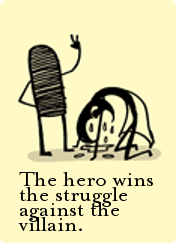
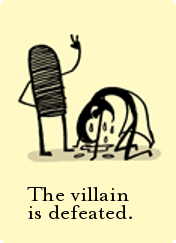
Tweaking the instructions on some of the story cards. Make them shorter and more horizontal, less vertical. Also tweaked the text on a couple of the images, and the text wrapping in StoryEditor. And minor edits to the HTML templates and styles.
StoryEditor's layout needs to be redesigned, the text components are sized in
pixels right now, they need to be sized proportionally by the layout manager
while still wrapping text.

I also wonder if StoryEditor should be simplified to be more like it originally
looked: all the story cards arranged from top to bottom with a single scroll
bar, no Next and Prev buttons, no CardLayout. Except do this with the nice
border, story card image and proportionally-sized text areas for each story
card.

Changed region(s): [[0.1136, 0.6914, 0.8807, 0.9506]]

diff --git a/src/storymaps/FunctionEditor.java b/src/storymaps/FunctionEditor.java
@@ -60,7 +60,7 @@ class FunctionEditor {
     private JTextArea makeEditor(String text) {
         JTextArea editor = new JTextArea(); // Hiding a field.
         editor.setRows(8);
-        editor.setMaximumSize(new Dimension(700,100));
+        editor.setMaximumSize(new Dimension(650,100));
         editor.setLineWrap(true);
         editor.setWrapStyleWord(true);
         editor.setText(text);
@@ -69,13 +69,14 @@ class FunctionEditor {
         return editor;
     }
     
-    private JEditorPane makeInstructions(Color background) {
-        JEditorPane instructions = new JEditorPane("text/html",
-                "<html>"+function.getInstructions()+"</html>");
+    private JTextPane makeInstructions(Color background) {
+        JTextPane instructions = new JTextPane();
+        instructions.setContentType("text/html");
+        instructions.setText("<html>"+function.getInstructions()+"</html>");
         instructions.setEditable(false);
         instructions.setBackground(background);
         instructions.setFont(Fonts.NORMAL);
-        //instructions.setPreferredSize(new Dimension(400,0));
+        instructions.setMaximumSize(new Dimension(650,100));
         return instructions;
     }
         
@@ -110,6 +111,7 @@ class FunctionEditor {
         Border title = BorderFactory.createTitledBorder(function.getName());
         Border empty = BorderFactory.createEmptyBorder(10,10,10,10);
         scrollPane.setBorder(BorderFactory.createCompoundBorder(title,empty));
+        scrollPane.setHorizontalScrollBarPolicy(ScrollPaneConstants.HORIZONTAL_SCROLLBAR_NEVER);
 
         return scrollPane;
     }

diff --git a/src/storymaps/PreviewDialog.java b/src/storymaps/PreviewDialog.java
@@ -9,11 +9,13 @@ import java.io.File;
 import java.io.IOException;
 import java.util.logging.*;
 import javax.imageio.ImageIO;
+import javax.swing.text.Document;
 import javax.swing.text.Element;
 import javax.swing.text.View;
 import javax.swing.text.ViewFactory;
 import javax.swing.text.html.HTMLEditorKit;
 import javax.swing.text.html.ImageView;
+import javax.swing.text.html.StyleSheet;
 
 /**
  *
@@ -63,6 +65,14 @@ public class PreviewDialog {
         };
         editor.setEditorKit(kit);
         editor.setEditable(false);
+        editor.setContentType("text/html");
+
+        // Java's default style doesn't seem to leave any gaps between
+        // paragraphs.
+        StyleSheet styleSheet = kit.getStyleSheet();
+        styleSheet.addRule("p {margin-bottom:5px;}");
+        Document doc = kit.createDefaultDocument();
+        editor.setDocument(doc);
 
         JScrollPane editorScrollPane = new JScrollPane(editor);
         editorScrollPane.setVerticalScrollBarPolicy(
@@ -120,7 +130,6 @@ public class PreviewDialog {
     private void update(StoryMap map) {
         this.map = map;
         // Convert the story map to HTML and load it into the editor pane.
-        editor.setContentType("text/html");
         try {
             String html = new TemplateHandler().renderStoryMap(map,getClass().getResource("/data/functions/").toString());
             editor.setText(html);
